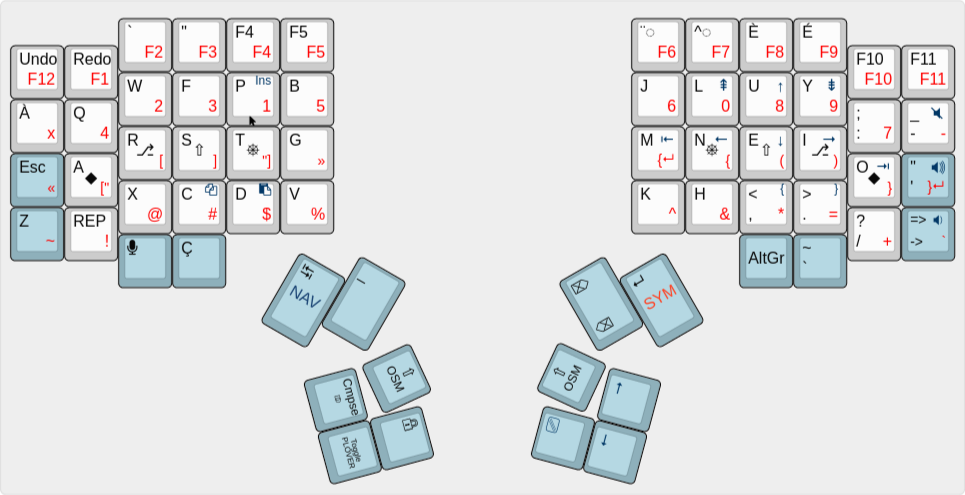
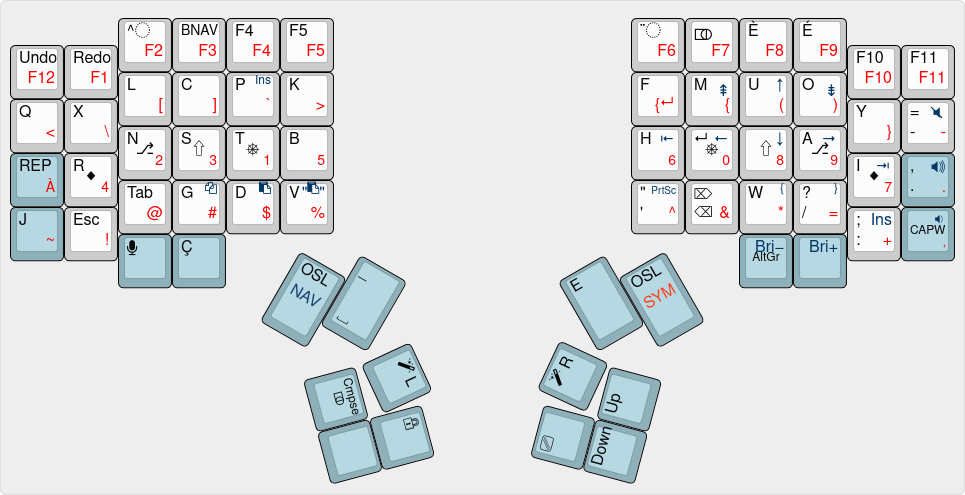
Update the documentation to reflect the migration to XYLOCUP

diff --git a/keymap.c b/keymap.c
@@ -1,6 +1,3 @@
-/* Colemak DHm with home row mods and hybrid steno
- * for the Dactyl Manuform 5x6 Keyboard */
-
 #include QMK_KEYBOARD_H
 #ifdef CONSOLE_ENABLE
 #include "print.h"

diff --git a/readme.md b/readme.md
@@ -1,14 +1,14 @@
 ## Precondition's keymap for the Dactyl Manuform 5x6
 To be inserted in ~/qmk_firmware/keyboards/handwired/dactyl_manuform/5x6/keymaps/precondition
 
-![Heatmap of key presses coming from all layers](visualisation/heatmap/all_layers.png)
-Figure 1. Heatmap of key presses coming from all layers. Unlike the ASCII art inside keymap.c, this figure is not automatically generated and may thus go out of date.
+![Keymap diagram of the base, SYM, and NAV layers](visualisation/kle/kle-base-sym-nav.png)
+Figure 1. Base layer legends in black, SYM layer legends in red, and NAV layer legends in blue. Unlike the ASCII art inside keymap.c, this figure is not automatically generated and may thus go out of date.
 
-This keymap uses Colemak-DH for its alpha base with the addition of common French accented keys in direct access and dead keys for the less common ones. For use in English, French, and programming.
+This keymap uses XYLOCUP, a totally deranged keymap I designed based on years of real keylogs fed into [jalo](https://github.com/tiagowright/jalo) with a custom set of metrics and weights. For use in English, French, and programming.
 
-Notably, [home row mods](https://precondition.github.io/home-row-mods) are used, as well as combos.
+Notably, [home row mods](https://precondition.github.io/home-row-mods) are used, as well as combos and [magic keys](https://layouts.wiki/reference/terminology/magic/) on the thumbs (`MAGIC_L` and `MAGIC_R`, see `magic_thumb_keys.c`).
 
-Aside from the usual combos that expand to a single special character or command like <kbd>\\</kbd> or <kbd>Caps Word Lock</kbd>, you can find, what I've dubbed, “steno-lite” combos in `combos.c`. Taking inspiration from machine stenography, common n-grams, word parts and words that are too short to abbreviate (in a text expansion program such as AutoKey) are assigned a key chord/combo, most frequently involving the <kbd>Backspace</kbd> key. Using <kbd>Backspace</kbd>+<kbd>Letter(s)</kbd> has the benefit of greatly reducing potential combo misfires as you're unlikely to type a letter and simultaneously delete it.
+The main use case for magic keys is to eliminate same-finger bigrams (SFB) and same-finger skipgrams (SFS). There are also several magic sequences that type out multiple characters at once like <kbd>Space</kbd> <kbd>MAGIC_L</kbd> producing “␣the” because the most frequent n-gram that follows space by far is “the”.
 
 Keymap visualisation diagrams are automatically generated with the help of [keymapviz] every time I compile.
 
@@ -18,11 +18,14 @@ Keymap visualisation diagrams are automatically generated with the help of [keym
 This keymap contains many nifty QMK tricks that can inspire you for your own keymap. Here's a non-exhaustive list.
 
 1. Home row mods: All the modifiers on the home row.
-2. One-Shot Swap Hand: For one-handed typing.
-3. `CAPS_WORD_LOCK`: Capitalizes the next word you type and then automatically toggle off Caps Lock. Perfect for typing all-caps IDENTIFIERS in code. This is a hand-rolled version of [Caps Word](https://docs.qmk.fm/#/feature_caps_word) that works on the basis of Caps Lock, unlike the core QMK feature which is based on weak Shifts. That makes it easier to keep track of its state and better handles corner cases with less firmware size.
-4. `REPEAT`: Repeat the last (modified) keystroke. This is used to eliminate the same-finger use that stems from double-tapping the same key. Ideally, this should be a thumb key but I couldn't fit it in my cluster in a satisfying manner.
-5. `QK_VERS`: Types out firmware build information in the format `QMK_KEYBOARD/QMK_KEYMAP @ QMK_VERSION( QMK_GIT_HASH), Built on: QMK_BUILDDATE` (e.g. `handwired/dactyl_manuform/5x6/precondition @ 0.22.7-dirty(4ebb065f94*), Built on: 2024-10-03-22:50:02`)
-6. Auto escape base-layer dead keys: Automatically press space after dead keys such as '"\`^. If you're used to US intl. with AltGr dead keys on Linux but only have access to US intl. with base-layer dead keys on Windows, you'll like this.
+2. `CAPS_WORD_LOCK`: Capitalizes the next word you type and then automatically toggle off Caps Lock. Perfect for typing all-caps IDENTIFIERS in code. This is a hand-rolled version of [Caps Word](https://docs.qmk.fm/#/feature_caps_word) that works on the basis of Caps Lock, unlike the core QMK feature which is based on weak Shifts. That makes it easier to keep track of its state and better handles corner cases with less firmware size.
+3. Magic keys (`MAGIC_L` and `MAGIC_R`): Two thumb keys whose output depends on the previous keys. By default, they type the home row key of the finger that typed the previous key, which eliminates same-finger bigrams. On top of that, context-specific rules defined in `magic_thumb_keys.c` avoid other awkward n-grams and shorten common ones (e.g. <kbd>G</kbd><kbd>MAGIC_L</kbd> types « git␣ »).
+4. `QK_REP`: QMK's [Repeat Key](https://docs.qmk.fm/features/repeat_key) repeats the last (modified) keystroke. This is used to eliminate the same-finger use that stems from double-tapping the same key. Repeating <kbd>Space</kbd> is rarely needed so it sends <kbd>Ctrl</kbd>+<kbd>T</kbd> instead, which opens fzf's file picker in the shell quickly.
+5. `REP2`: Like `QK_REP` but repeats the last two keys with their modifiers (e.g. « ↓␣ » or « ⇧⇥⏎ » or « nana » as in なな).
+6. Custom shift pairs: <kbd>Shift</kbd>+<kbd>.</kbd> = <kbd>,</kbd>, <kbd>Shift</kbd>+<kbd>:</kbd> = <kbd>;</kbd>, <kbd>Shift</kbd>+<kbd>-</kbd> = <kbd>=</kbd>, and <kbd>Shift</kbd>+<kbd>Backspace</kbd> = <kbd>Delete</kbd>. These are [key overrides](https://docs.qmk.fm/features/key_overrides). Also, a one-shot <kbd>Shift</kbd> followed by <kbd>Space</kbd> types <kbd>_</kbd>.
+7. `LAEDER` [sic]: Sends <kbd>Compose</kbd> on Linux and <kbd>Alt</kbd> on Windows (for Alt key sequences in apps like Word), but without the special handling QMK gives to one-shot modifiers. <kbd>Shift</kbd> inverts which one is sent.
+8. tmux and Vim navigation layers: `BNAV` sends tmux prefix commands to create, switch, split, zoom, and close windows and panes, while `GNAV` sends Vim's `g` motions to move through screen lines.
+9. Auto escape base-layer dead keys: Automatically press space after dead keys such as '"\`^. If you're used to US intl. with AltGr dead keys on Linux but only have access to US intl. with base-layer dead keys on Windows, you'll like this. `BDED_ON` and `BDED_OF` on the ADJUST layer toggle this at run time.
 
 ### OS Setup
 
